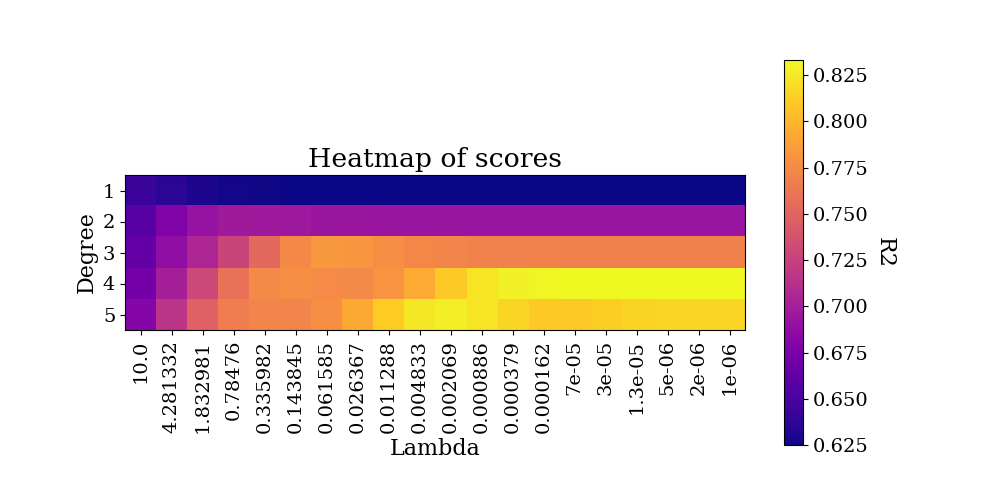
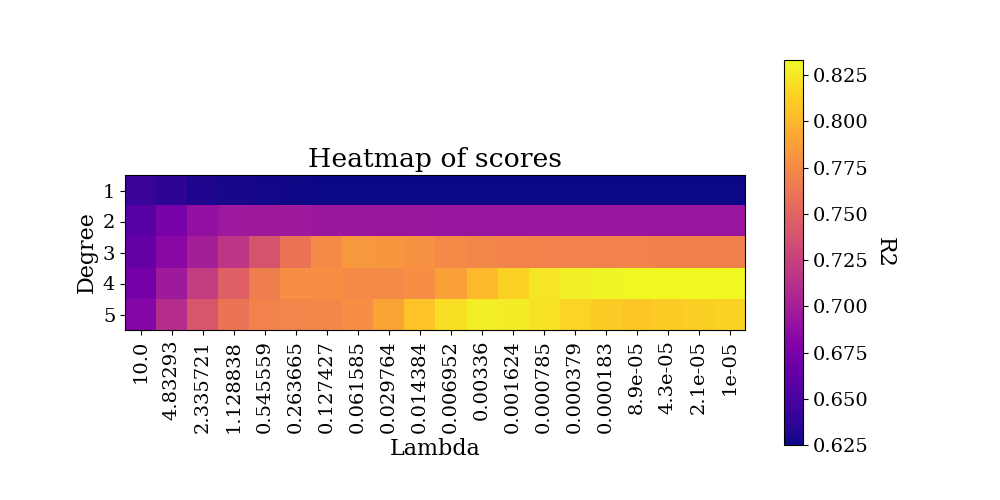
realdata

Changed region(s): [[0.155, 0.69, 0.744, 0.87], [0.341, 0.51, 0.558, 0.66]]

diff --git a/project1/src/realData.py b/project1/src/realData.py
@@ -18,7 +18,7 @@ terrain = imageio.imread(os.path.join(ROOT_DIR, 'data', 'SRTM_data_Norway_1.tif'
 # terrain = imageio.imread(os.path.join(ROOT_DIR, 'data', 'SRTM_data_Norway_2.tif'))
 terrain = np.array(terrain)
 N = 1800
-n = 4000 
+n = 10000 
 terrain = terrain[:N,:N]
 x0sample = np.random.randint(0, N, n)
 x1sample = np.random.randint(0, N, n)
@@ -31,11 +31,11 @@ x_train, x_test, y_train, y_test = train_test_split(X, y, test_size=0.2, shuffle
 
 
 lambdas = [0.00001 ,0.0001, 0.001, 0.01,0.1, 1 ] 
-degrees = [5,8,10,12,15,45]
+degrees = [5,8,10,15, 20,30,46]
 numlamdas = len(lambdas)
 numdegrees = len(degrees)
 
-numfolds = 7
+numfolds = 10
 kfold = KFold(n_splits = numfolds)
 scores_KFold_R2OLS = np.zeros((numdegrees, numlamdas, numfolds))
 scores_KFoldOLS = np.zeros((numdegrees, numlamdas, numfolds))
@@ -43,8 +43,7 @@ scores_KFold_R2Ridge = np.zeros((numdegrees, numlamdas, numfolds))
 scores_KFoldRidge = np.zeros((numdegrees, numlamdas, numfolds))
 scores_KFold_R2Lasso = np.zeros((numdegrees, numlamdas, numfolds))
 scores_KFoldLasso = np.zeros((numdegrees, numlamdas, numfolds))
-bias = np.zeros(numdegrees)
-variance = np.zeros(numdegrees)
+scores = np.zeros((numdegrees, numlamdas))
 scaler = StandardScaler()
 
 for j , degree in enumerate(degrees):
@@ -54,7 +53,7 @@ for j , degree in enumerate(degrees):
         lasso = Lasso(alpha = lmb ) 
         ridge = Ridge( alpha=lmb )
         k = 0
-        pred = np.empty((y_test.shape[0], numfolds))
+        pred = np.empty((y_test.ravel().shape[0], numfolds))
         for trainind, testind in kfold.split(x_train):
             x_train_fold, x_val_fold = x_train[trainind], x_train[testind]
             y_train_fold, y_val_fold = y_train[trainind], y_train[testind]
@@ -75,11 +74,9 @@ for j , degree in enumerate(degrees):
             scores_KFold_R2Ridge[j,i,k] = R2(y_val_fold, ridge.predict(X_val) + y_train_mean)
             # scores_KFoldLasso[j,i,k] = MSE(y_val_fold, lasso.predict(X_val) + y_train_mean)
             # scores_KFold_R2Lasso[j,i,k] = R2(y_val_fold, lasso.predict(X_val) + y_train_mean)
-            if ( i == 1 ):
-                pred[:,k] = (ridge.predict(X_test) + y_train_mean).ravel()
             k += 1
-    bias[j] = np.mean( (y_test - np.mean(pred, axis=1, keepdims=False))**2 )
-    variance[j] = np.mean( np.var(pred, axis=1, keepdims=True) )
+        scores[j,i] = MSE(y_test, ridge.predict(X_test) + y_train_mean)
+
 
 estimated_mse_KFoldOLS = np.mean(scores_KFoldOLS, axis = 2)
 estimated_mse_KFold_R2OLS = np.mean(scores_KFold_R2OLS, axis = 2)
@@ -88,7 +85,7 @@ estimated_mse_KFold_R2Ridge = np.mean(scores_KFold_R2Ridge, axis = 2)
 estimated_mse_KFoldLasso = np.mean(scores_KFoldLasso, axis = 2)
 estimated_mse_KFold_R2Lasso = np.mean(scores_KFold_R2Lasso, axis = 2)
 
-
+variance = np.var(scores_KFoldRidge, axis = 2)
 
 
 def findParmas(error,  R2score , polydegree, lamdas=None):
@@ -142,7 +139,20 @@ ax1.set_xlabel("Lambda")
 ax1.set_xticks(np.arange(len(lambdas)),labels=lambdas)
 ax1.set_yticks(np.arange(len(degrees)), labels=degrees)
 ax1.set_ylabel(r"values of $\beta$")
-im = ax1.imshow(estimated_mse_KFoldRidge, cmap="plasma")
+im = ax1.imshow(estimated_mse_KFoldRidge + variance, cmap="plasma")
+cbar = ax1.figure.colorbar(im, ax=ax1) 
+cbar.ax.set_ylabel("label", rotation=-90, va="bottom")
+# plt.savefig("../runsAndAdditions/tullll.png")
+plt.show()
+
+
+fix1 , ax1 = plt.subplots(figsize=(10,10))
+ax1.set_title(r"OLS - $\mathbf{\beta}$ and model complexity")
+ax1.set_xlabel("Lambda")
+ax1.set_xticks(np.arange(len(lambdas)),labels=lambdas)
+ax1.set_yticks(np.arange(len(degrees)), labels=degrees)
+ax1.set_ylabel(r"values of $\beta$")
+im = ax1.imshow(scores, cmap="plasma")
 cbar = ax1.figure.colorbar(im, ax=ax1) 
 cbar.ax.set_ylabel("label", rotation=-90, va="bottom")
 # plt.savefig("../runsAndAdditions/tullll.png")
@@ -150,17 +160,16 @@ plt.show()
 
 
 
-
-fig, ax = plt.subplots(figsize=(10, 10))
-ax.set_xlabel('Model complexity')
-ax.set_ylabel('Error')
-ax.set_title('Bias-variance tradeoff')
-# ax.plot(polydegree, estimated_mse_KFoldOLS[:,0],'--', label='Error', color='black')
-ax.plot(degrees, bias, label='bias', color='purple')
-ax.plot(degrees, variance, label='Variance', color='teal')
-# ax.set_yscale('log')
-plt.legend()
-# plt.savefig('../runsAndAdditions/bias-varianceRealData.png')
+fix1 , ax1 = plt.subplots(figsize=(10,10))
+ax1.set_title(r"OLS - $\mathbf{\beta}$ and model complexity")
+ax1.set_xlabel("Lambda")
+ax1.set_xticks(np.arange(len(lambdas)),labels=lambdas)
+ax1.set_yticks(np.arange(len(degrees)), labels=degrees)
+ax1.set_ylabel(r"values of $\beta$")
+im = ax1.imshow(variance, cmap="plasma")
+cbar = ax1.figure.colorbar(im, ax=ax1) 
+cbar.ax.set_ylabel("label", rotation=-90, va="bottom")
+# plt.savefig("../runsAndAdditions/tullll.png")
 plt.show()
 
 

diff --git a/project1/src/bias-varianceOLS.py b/project1/src/bias-varianceOLS.py
@@ -11,7 +11,7 @@ import numpy as np
 from sklearn.preprocessing import PolynomialFeatures
 from sklearn.model_selection import train_test_split
 from sklearn.utils import resample
-from utils import FrankeFunction, readData , MSE, R2, OLS,  plotFrankefunction
+from utils import FrankeFunction, readData , OLS 
 
 
 def MSE(y_data,y_model):
@@ -40,7 +40,6 @@ testR2  = np.zeros(maxdegree)
 scaler = StandardScaler()
 y_train_mean = np.mean(y_train)
 model = OLS()
-
 for degree in range(maxdegree):
     
     poly = PolynomialFeatures(degree+1,include_bias=False)
@@ -52,10 +51,10 @@ for degree in range(maxdegree):
     for i in range(n_boostraps):
         x_, y_ = resample(x_train, y_train)
         y_ = y_ - y_train_mean
-        x_ = poly.transform(x_)
+        x_ = poly.fit_transform(x_)
         x_ = scaler.transform(x_)
         model.fit(x_, y_)
-        y_pred[:, i] = ( model.predict(X_test) + y_train_mean  )
+        y_pred[:, i] = model.predict(X_test) + y_train_mean
     polydegree[degree] = degree
     error[degree] = np.mean( np.mean((y_test.reshape(-1,1) - y_pred)**2, axis=1, keepdims=True) )
     bias[degree] = np.mean( (y_test - np.mean(y_pred, axis=1, keepdims=False))**2 )

diff --git a/project1/src/frankefigure.py b/project1/src/frankefigure.py
@@ -45,7 +45,7 @@ ax = fig.add_subplot(projection='3d')
 
 ax.set_title("Data", fontsize=16)
 ax.plot_surface(xx, yy, z, cmap="bone", linewidth=0, antialiased=False, alpha=0.2)
-surf = ax.scatter(X[:,0],X[:,1], y , c=y, cmap="cool", alpha=1) 
+surf = ax.scatter(X[:,0],X[:,1], y , c=y, cmap='viridis', alpha=1) 
 ax.set_zlim(-0.10, 1.40)
 # plt.savefig("../runsAndAdditions/frankefigurenoise.png")
 ax.set_zticks([])

diff --git a/project1/src/ridge.py b/project1/src/ridge.py
@@ -32,7 +32,7 @@ y_train_scaled = y_train - y_train_mean
 scaler = StandardScaler()
 
 for i, l in enumerate(lamdas):
-    model = Ridge( alpha=l )
+    model = Ridge( alpha=l , maxiter=10000)
     for degree in range(maxdegree):
         poly = PolynomialFeatures(degree+1, include_bias=False)
         X_train = poly.fit_transform(x_train)

diff --git a/project1/src/crossval.py b/project1/src/crossval.py
@@ -161,7 +161,7 @@ plt.savefig("../runsAndAdditions/heatmapCrossval.png")
 
 
 fix1 , ax1 = plt.subplots(figsize=(10,10))
-ax1.set_title("MSE for various k")
+ax1.set_title("OLS MSE for various k")
 ax1.set_xlabel("k",size=20)
 ax1.set_ylabel(r"MSE")
 ax1.plot(karray, bestk)

diff --git a/project1/src/utils.py b/project1/src/utils.py
@@ -175,7 +175,7 @@ class OLS:
 
 
     def fit(self,X,y):
-        self.beta = np.linalg.inv(X.T @ X) @ X.T @ y
+        self.beta = np.linalg.pinv(X.T @ X) @ X.T @ y
 
 
     def predict(self,X):
